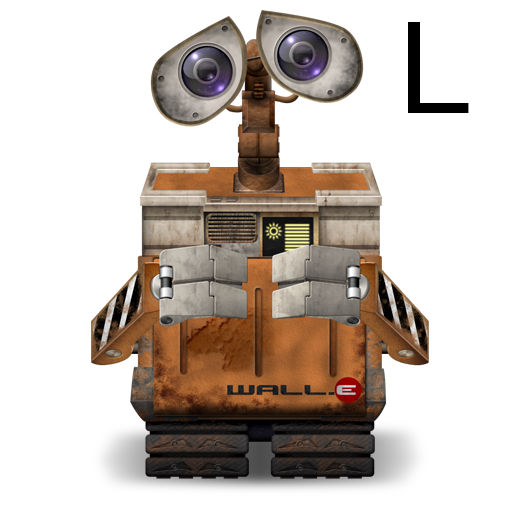
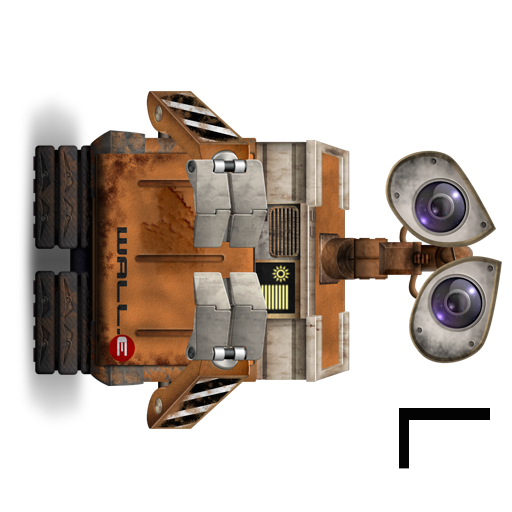
Help Button & Wall-E Rotate
Added a help button to the login panel and I rotated Wall-E so he faces
the direction he will move in

diff --git a/src/view/LoginPanel.java b/src/view/LoginPanel.java
@@ -5,6 +5,8 @@ import util.Constants;
 
 import javax.swing.*;
 import javax.swing.border.EmptyBorder;
+import javax.swing.border.LineBorder;
+
 import java.awt.*;
 import java.awt.event.ActionEvent;
 import java.awt.event.ActionListener;
@@ -44,6 +46,50 @@ public class LoginPanel extends JPanel
         final HintPanel hintPanel = new HintPanel(new Dimension(250, 20));
 
         JButton loginButton = new JButton("Login");
+        
+        JButton helpButton = new JButton("Help");
+        
+        helpButton.addActionListener(new ActionListener() {
+            @Override
+            public void actionPerformed(ActionEvent e) {
+                JFrame help = new JFrame("Help");
+                help.setResizable(false);
+                JPanel panel = new JPanel();
+            	help.setVisible(true);
+            	help.setSize(600, 600);
+                help.add(panel);
+                JTextArea helpText = new JTextArea();
+                helpText.setLineWrap(true);
+                helpText.setWrapStyleWord(true);
+                helpText.setText("For Admins: There are three options for admin activity. The registration button (the middle button) "
+                		+ "allows a teacher to add new teachers to the program as admins and add new students to the program as players. "
+                		+ "Additionally, teachers can delete students and teachers from the program here. The left button is the highscore "
+                		+ "button which is used to track student progress in each level. Finally, the right button is the world edit button. "
+                		+ "This is where teachers will spend a bulk of their time on this program editing new worlds for studets to play. "
+                		+ "Each world must have only one Karel and only one home and have a grid size from 10 to 50. Everything else is up to "
+                		+ "the teacher. Used to check fields at the bottom to select which item to place in the play grid and click to place "
+                		+ "the item. Double clicking will delete an item and clicking over an object will replace it with the selected object. "
+                		+ "When a teacher is done, he can save the world using the menu on the top left area of the play window. Here a teacher can "
+                		+ "also load a world to further edit it or even delete a world.												"
+                		+ "For Students: Students can select whichever world they wish to play upon logging in. Upon loading the world, "
+                		+ "students will see a play grid, a blank side panel next to the grid, and buttons on the bottom of the play window. "
+                		+ "The main objective for the student is to make programs for Wall-E to collect all the potatoes and reach the home on the grid. "
+                		+ "A student may do this by clicking on the buttons they wish to add to his program. Once a button is clicked, "
+                		+ "it will be added to the side panel next to the grid. A student may delete a piece of code by double clicking it "
+                		+ "and he may also add after a specific piece of code by clicking on the piece of codes he wants to add after "
+                		+ "and then click the code to be added itself. The buttons on the bottom will change depending on what a student's valid "
+                		+ "options to add to a program are. For example, all IF and WHILE code pieces must end with an END. A student may save "
+                		+ "a created program by using the save as macro option in the menu that is at the top of the play window. Once a macro is save, "
+                		+ "it will appear in the macro area at the bottom right of the play window. A student may also use this menu to clear all "
+                		+ " of his code from the side panel, run his code on the world, go back to select a new world, or run his code in "
+                		+ "step by step mode. Here a student will be able to see exactly what his code does. Once a student completes a world, "
+                		+ "a message will be displayed at the bottom to notify the student with his score and send him back to the "
+                		+ "world selection screen.");
+                helpText.setPreferredSize(new Dimension(600, 600));
+                helpText.setEditable(false);
+                panel.add(helpText);
+            }
+        });
 
         loginButton.addActionListener(new ActionListener() {
             @Override
@@ -142,6 +188,13 @@ public class LoginPanel extends JPanel
         c.fill = GridBagConstraints.HORIZONTAL;
         loginButton.setFocusable(false);
         add(loginButton, c);
+        
+        c = new GridBagConstraints();
+        c.gridx = 25;
+        c.gridy = 3;
+        c.fill = GridBagConstraints.HORIZONTAL;
+        helpButton.setFocusable(false);
+        add(helpButton, c);
 
     }
 
